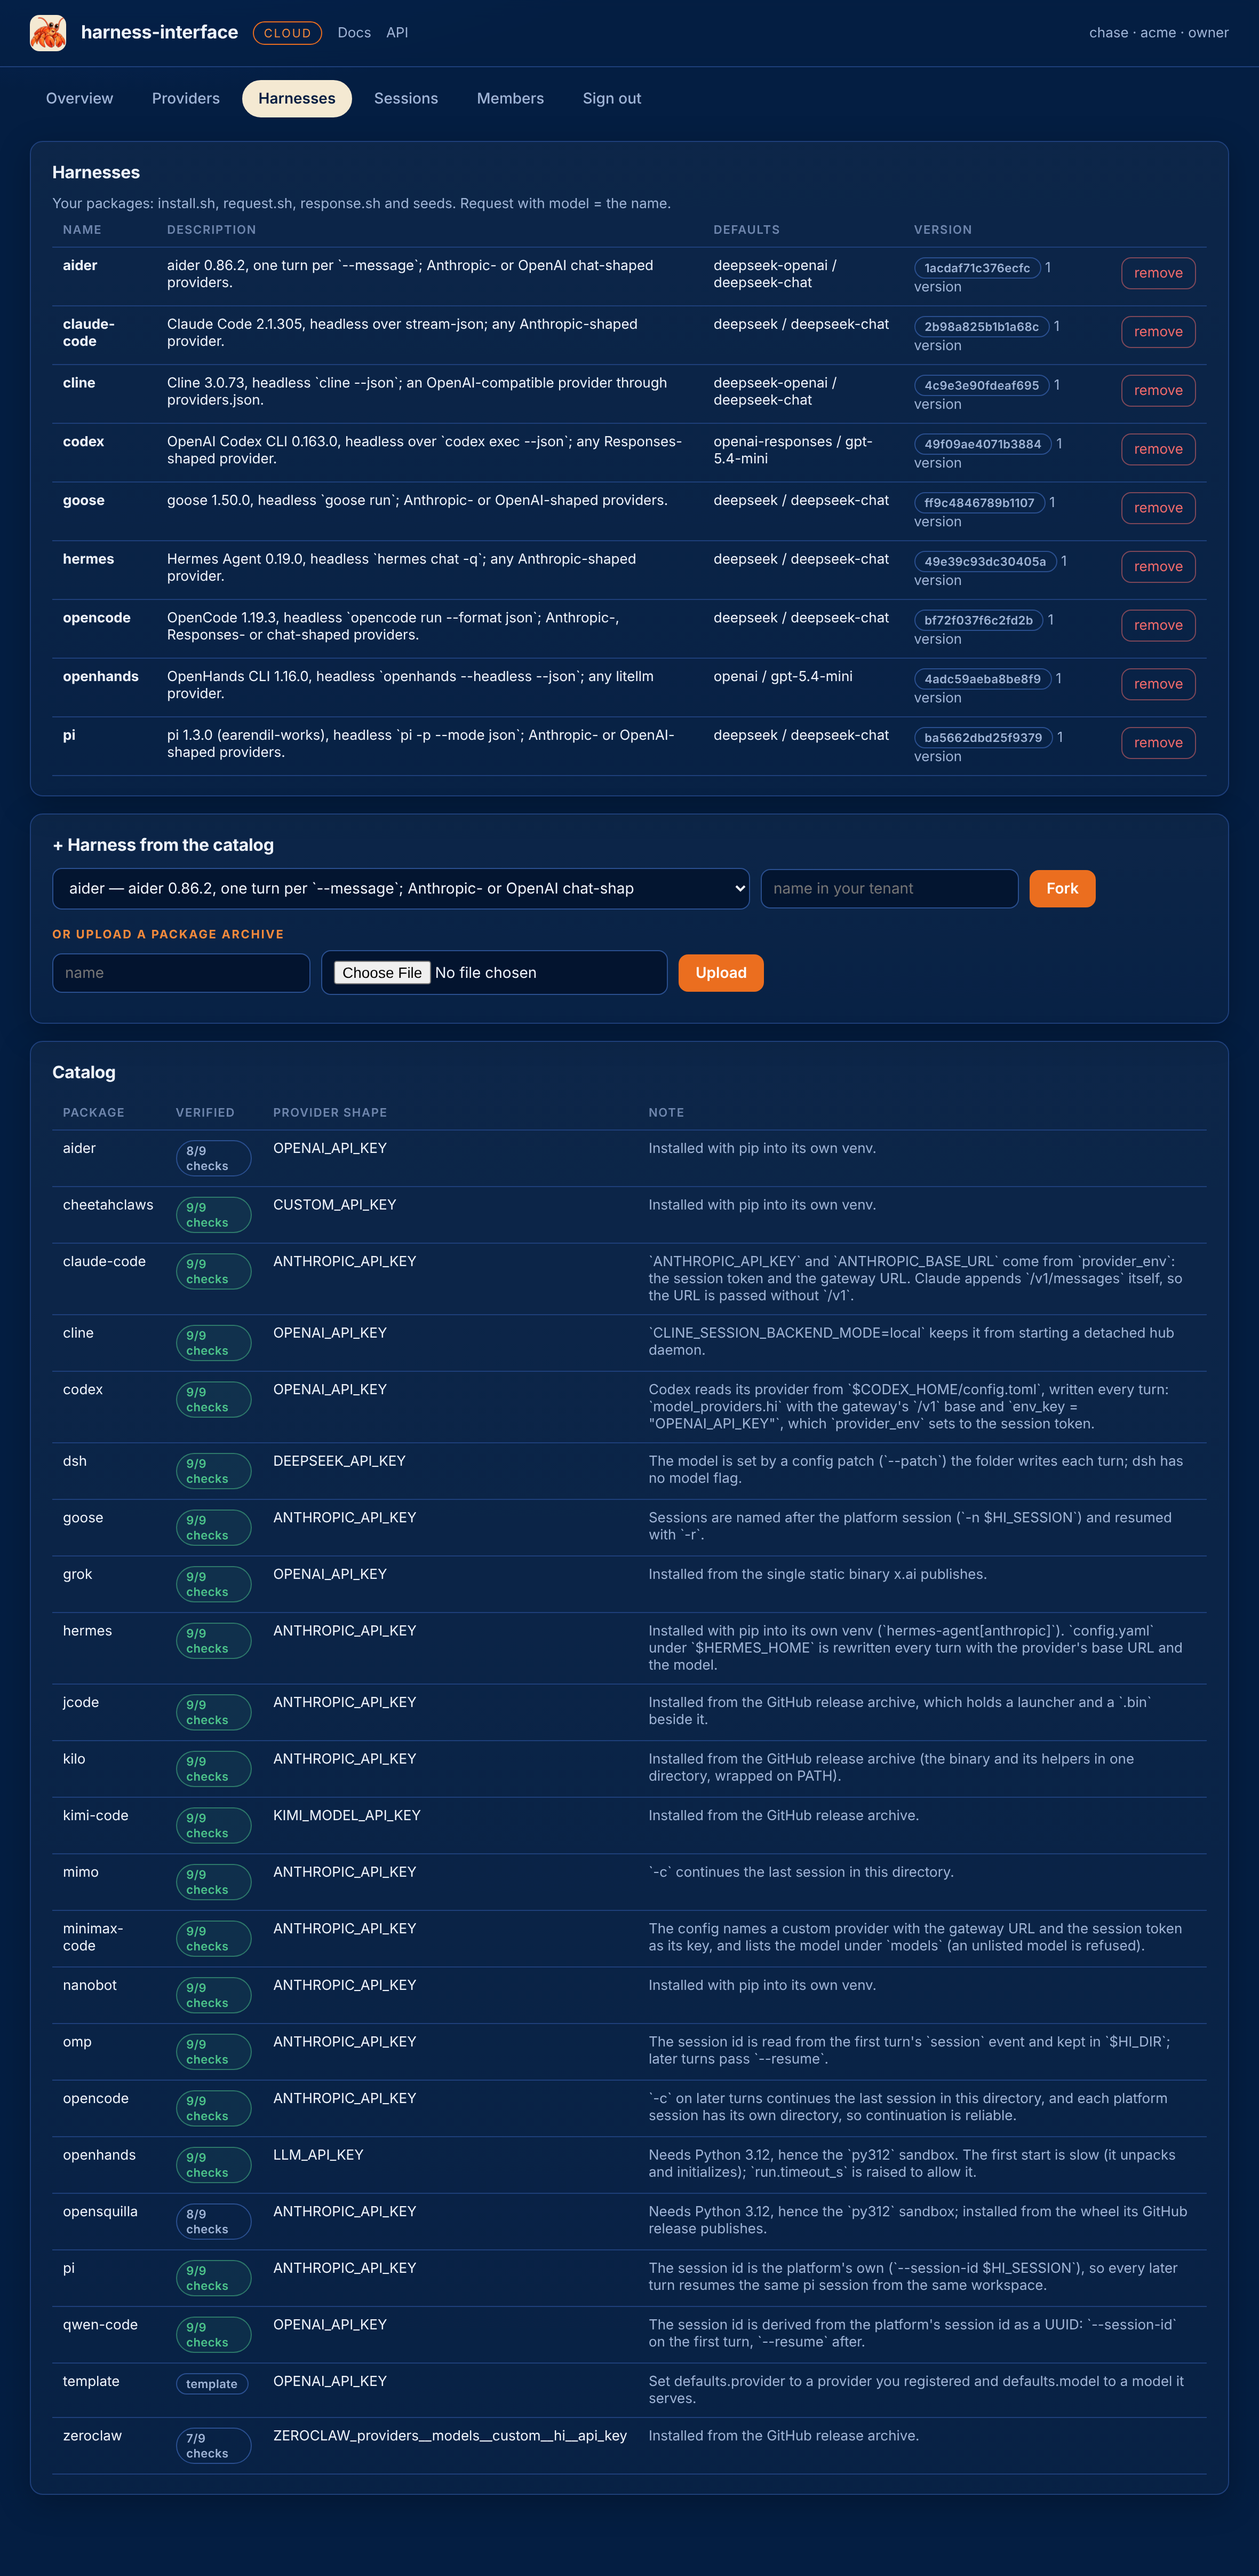
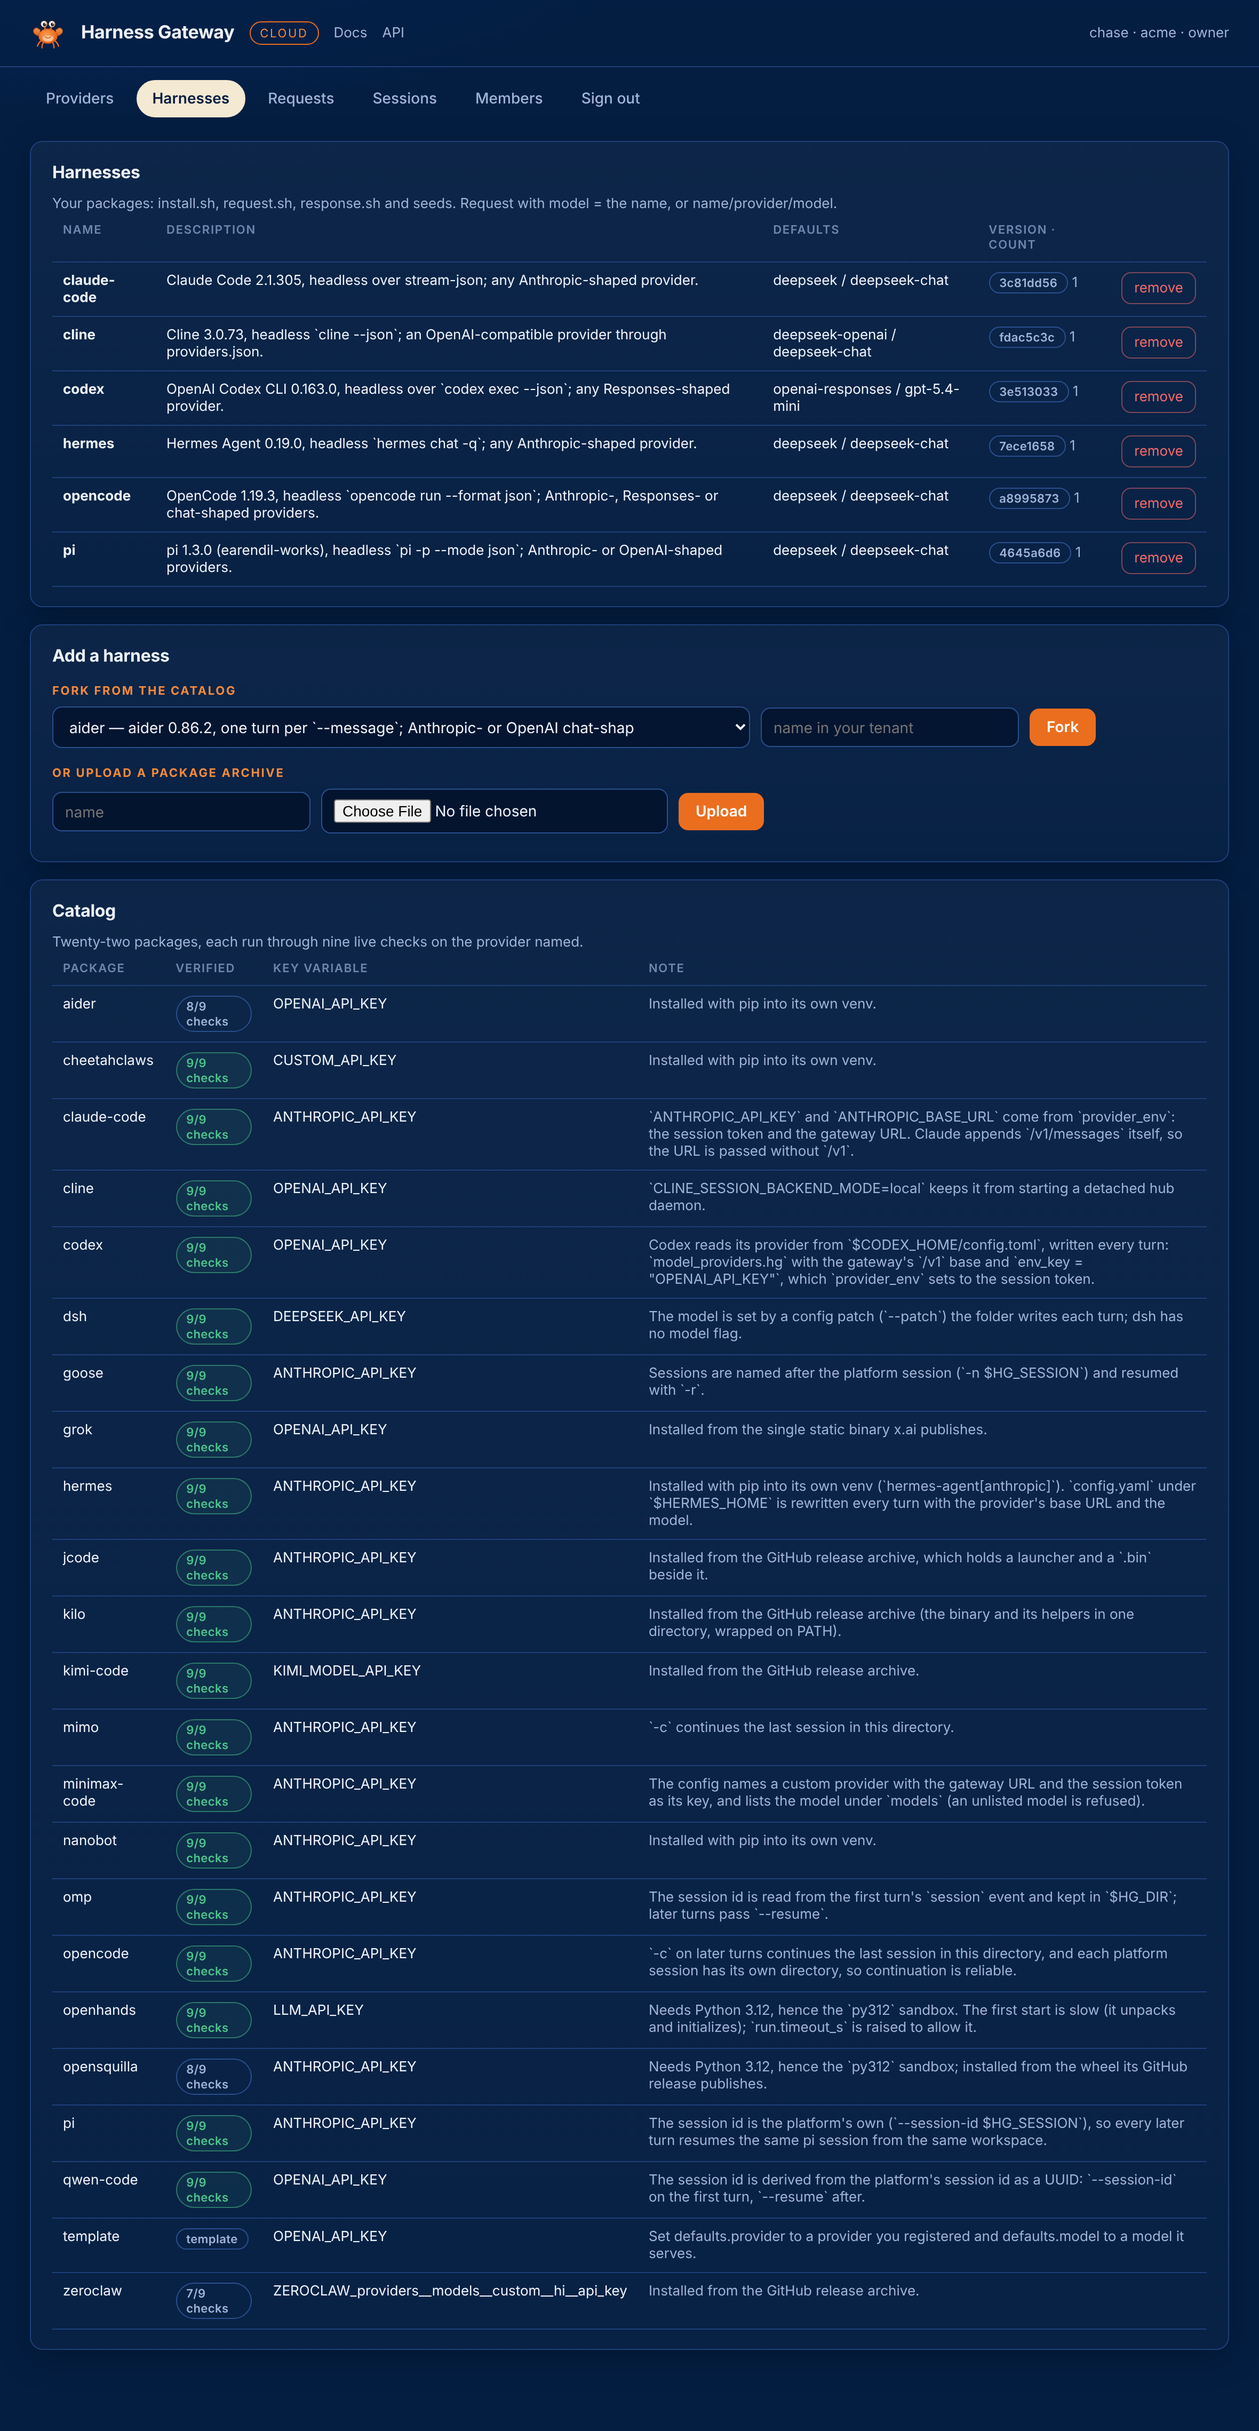
The 5.0 screenshots and recordings, the dashboard's charts tidied
Every screenshot retaken on the web surface: the home page, sign in and sign
up, the app's tabs with a live run, the dashboard, tenants and workers. The
six demos re-recorded on the 5.0 platform. Chart axes carry their units, days
with nothing draw no mark, and a turn still running is named as such.

Claude-Session: https://claude.ai/code/session_01ERRZXAJHGKJWMvAyf4LasW

diff --git a/web/app.js b/web/app.js
@@ -167,18 +167,18 @@ const tip = (el, text) => { el.addEventListener("mousemove", (e) => { const t = 
 
 function columns(rows, key, fmt, title) {
   // one series of thin columns, a hairline grid, labels on the last and the highest, a tooltip per column
-  const W = 720, H = 200, L = 36, R = 8, T = 18, B = 26;
+  const W = 720, H = 200, L = 48, R = 8, T = 18, B = 26;
   const max = Math.max(1, ...rows.map(r => r[key]));
   const step = Math.pow(10, Math.floor(Math.log10(max))); const top = Math.ceil(max / step) * step;
   const root = svg("svg", { class: "chart", viewBox: `0 0 ${W} ${H}`, preserveAspectRatio: "none", role: "img", "aria-label": title });
   root.append(svg("title", {}, title));
-  for (let i = 0; i <= 2; i++) { const y = T + (H - T - B) * (1 - i / 2); root.append(svg("line", { class: "grid", x1: L, x2: W - R, y1: y, y2: y }), svg("text", { class: "axis", x: L - 6, y: y + 3, "text-anchor": "end" }, num(top * i / 2))); }
+  for (let i = 0; i <= 2; i++) { const y = T + (H - T - B) * (1 - i / 2); root.append(svg("line", { class: "grid", x1: L, x2: W - R, y1: y, y2: y }), svg("text", { class: "axis", x: L - 6, y: y + 3, "text-anchor": "end" }, i ? fmt(top * i / 2) : "0")); }
   const slot = (W - L - R) / rows.length, bw = Math.min(24, Math.max(2, slot - 2));
   const peak = rows.reduce((b, r, i) => r[key] > rows[b][key] ? i : b, 0);
   rows.forEach((r, i) => {
     const x = L + i * slot + (slot - bw) / 2, hgt = (H - T - B) * r[key] / top, y = H - B - hgt;
     const g = svg("g", {});
-    g.append(svg("path", { class: "bar", d: `M${x},${H - B} V${y + 4} a4,4 0 0 1 4,-4 h${bw - 8} a4,4 0 0 1 4,4 V${H - B} Z` }));
+    if (r[key] > 0) g.append(svg("path", { class: "bar", d: `M${x},${H - B} V${Math.min(y + 4, H - B)} a4,4 0 0 1 4,-4 h${bw - 8} a4,4 0 0 1 4,4 V${H - B} Z` }));
     g.append(svg("rect", { class: "hit", x: L + i * slot, y: T, width: slot, height: H - T - B }));
     tip(g, `${r.day}: ${fmt(r[key])}`);
     root.append(g);

diff --git a/harnessgateway/api/deployer.py b/harnessgateway/api/deployer.py
@@ -51,7 +51,7 @@ def router(store: Store, sessions: Sessions, principals: Principals) -> APIRoute
         for tenant, u in rows:
             by_day.setdefault(time.strftime("%Y-%m-%d", time.gmtime(u.get("at", 0))), []).append(u)
             by_tenant.setdefault(tenant, []).append(u)
-            by_harness.setdefault(u.get("harness", "?"), []).append(u)
+            by_harness.setdefault(u.get("harness") or "(in progress)", []).append(u)
         span = days if days > 0 else max(1, int((now - min((u.get("at", now) for _, u in rows), default=now)) // 86400) + 1)
         day_rows = []
         for i in range(span - 1, -1, -1):

diff --git a/scripts/demo.py b/scripts/demo.py
@@ -152,6 +152,7 @@ def main() -> int:
                     final.append(d["response"])
     f = final[-1] if final else {}
     say("response", f"status={f.get('status')}  exit_code={f.get('metadata', {}).get('exit_code')}  {round(time.time() - started)}s", GREEN)
+    _seen.clear(); _line[0] = ""                       # the response is read whole, not as a continuation of the stream
     text = flatten(f.get("output", [{}])[0].get("content", [{}])[0].get("text", "")).splitlines()
     print("\n".join(text[-6:]) if len(text) > 6 else "\n".join(text))
     if len(text) > 6:

diff --git a/skills/harnessgateway-setup/SKILL.md b/skills/harnessgateway-setup/SKILL.md
@@ -1,11 +1,11 @@
 ---
 name: harnessgateway-setup
-description: Set up harnessgateway, the multi-tenant harness platform, end to end and prove it works. Use when asked to deploy or configure harnessgateway, create a tenant, register a provider, fork or upload a harness package, add members and keys, or make a first OpenAI Responses request against it. Covers the one-box self-hosted platform and a tenant on a hosted one.
+description: Set up Harness Gateway (harnessgateway), the multi-tenant harness platform, end to end and prove it works. Use when asked to deploy or configure harnessgateway, create a tenant, register a provider, fork or upload a harness package, add members and keys, or make a first OpenAI Responses request against it. Covers the one-box self-hosted platform and a tenant on a hosted one.
 ---
 
-# Set up harnessgateway end to end
+# Set up Harness Gateway end to end
 
-harnessgateway runs harness packages (a CLI agent plus `install.sh`, `request.sh`, `response.sh`
+Harness Gateway runs harness packages (a CLI agent plus `install.sh`, `request.sh`, `response.sh`
 and seeds) in sandboxes it owns, behind the OpenAI Responses API. A tenant registers **providers**
 (model endpoints and keys) and **harnesses** (packages, forked from the catalog or uploaded); members
 `POST /v1/responses` with `model` set to the harness name or `harness/provider/model`.
